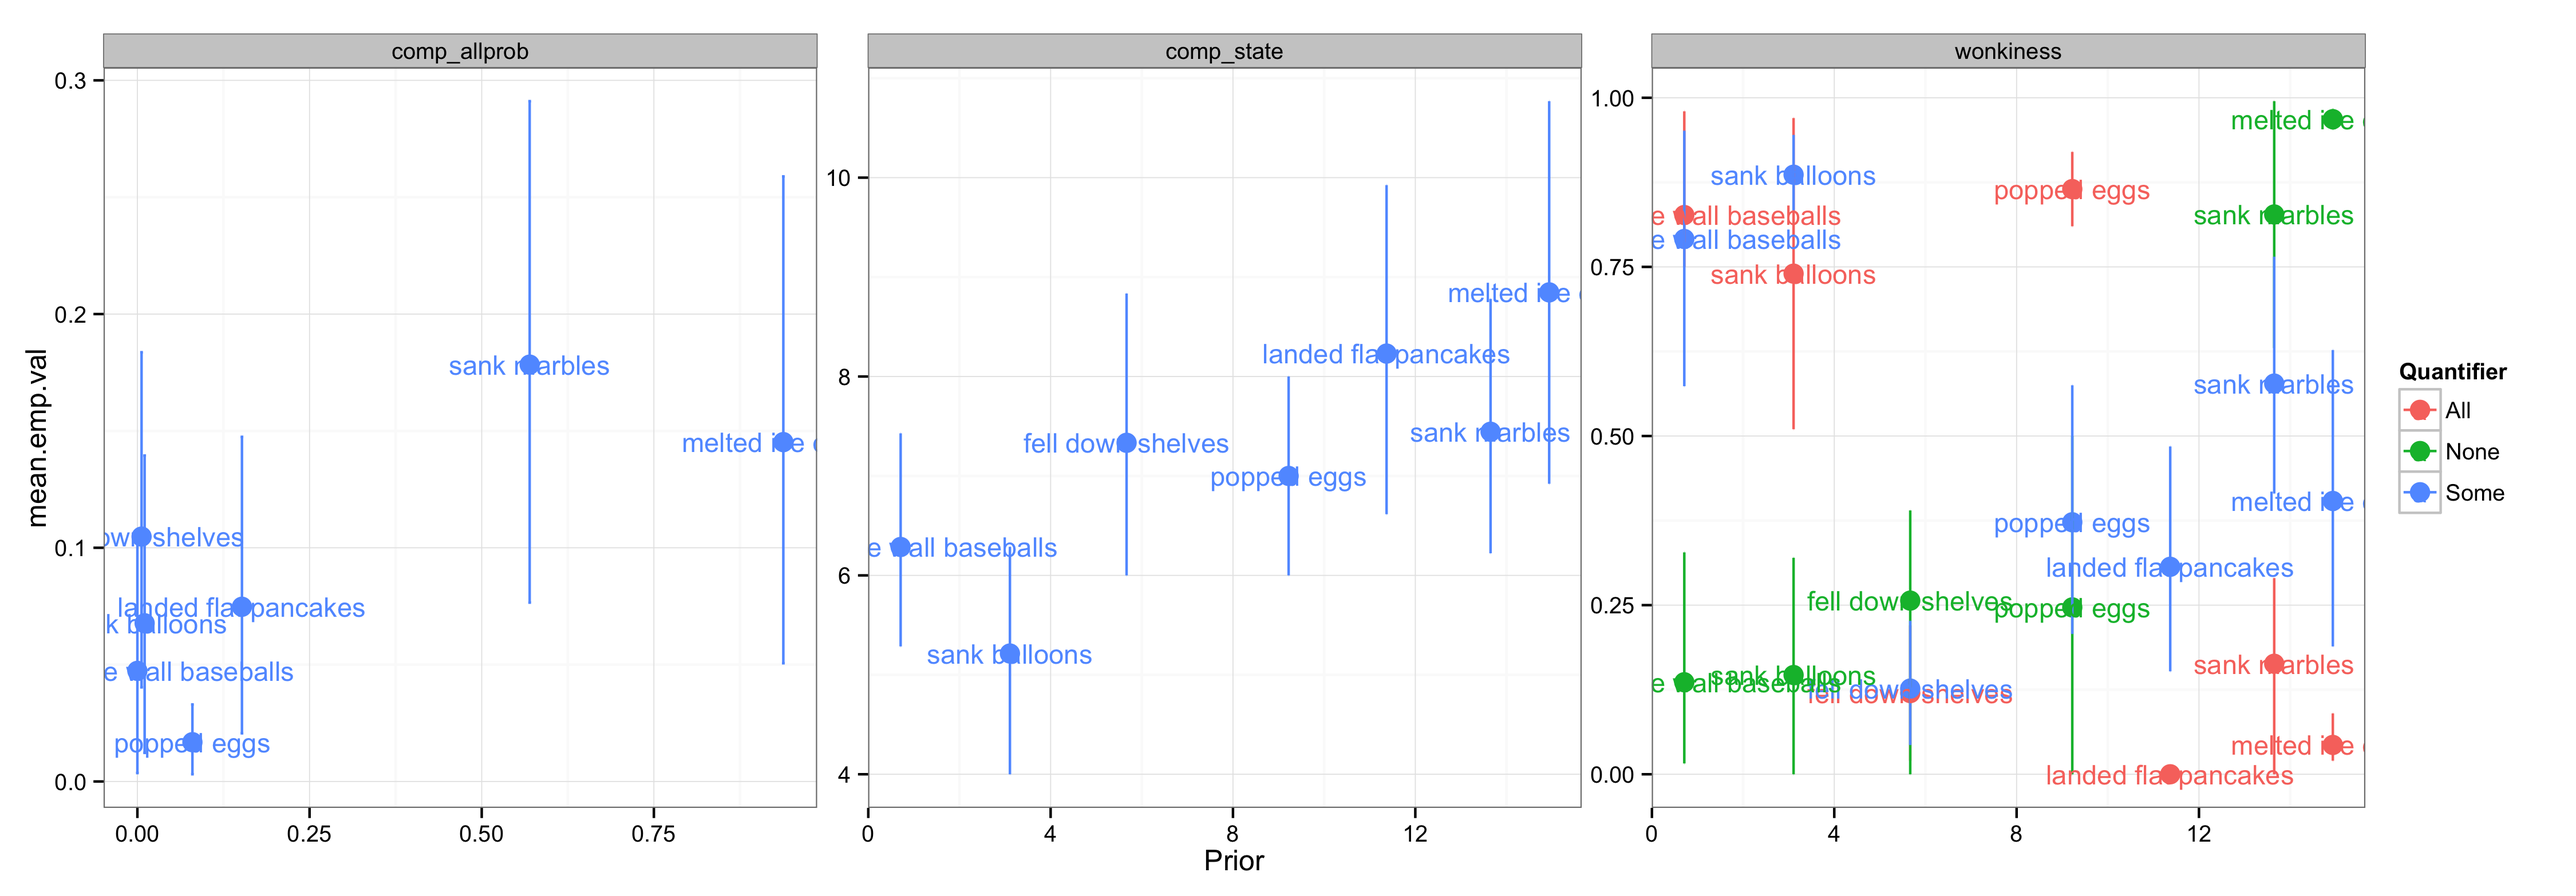
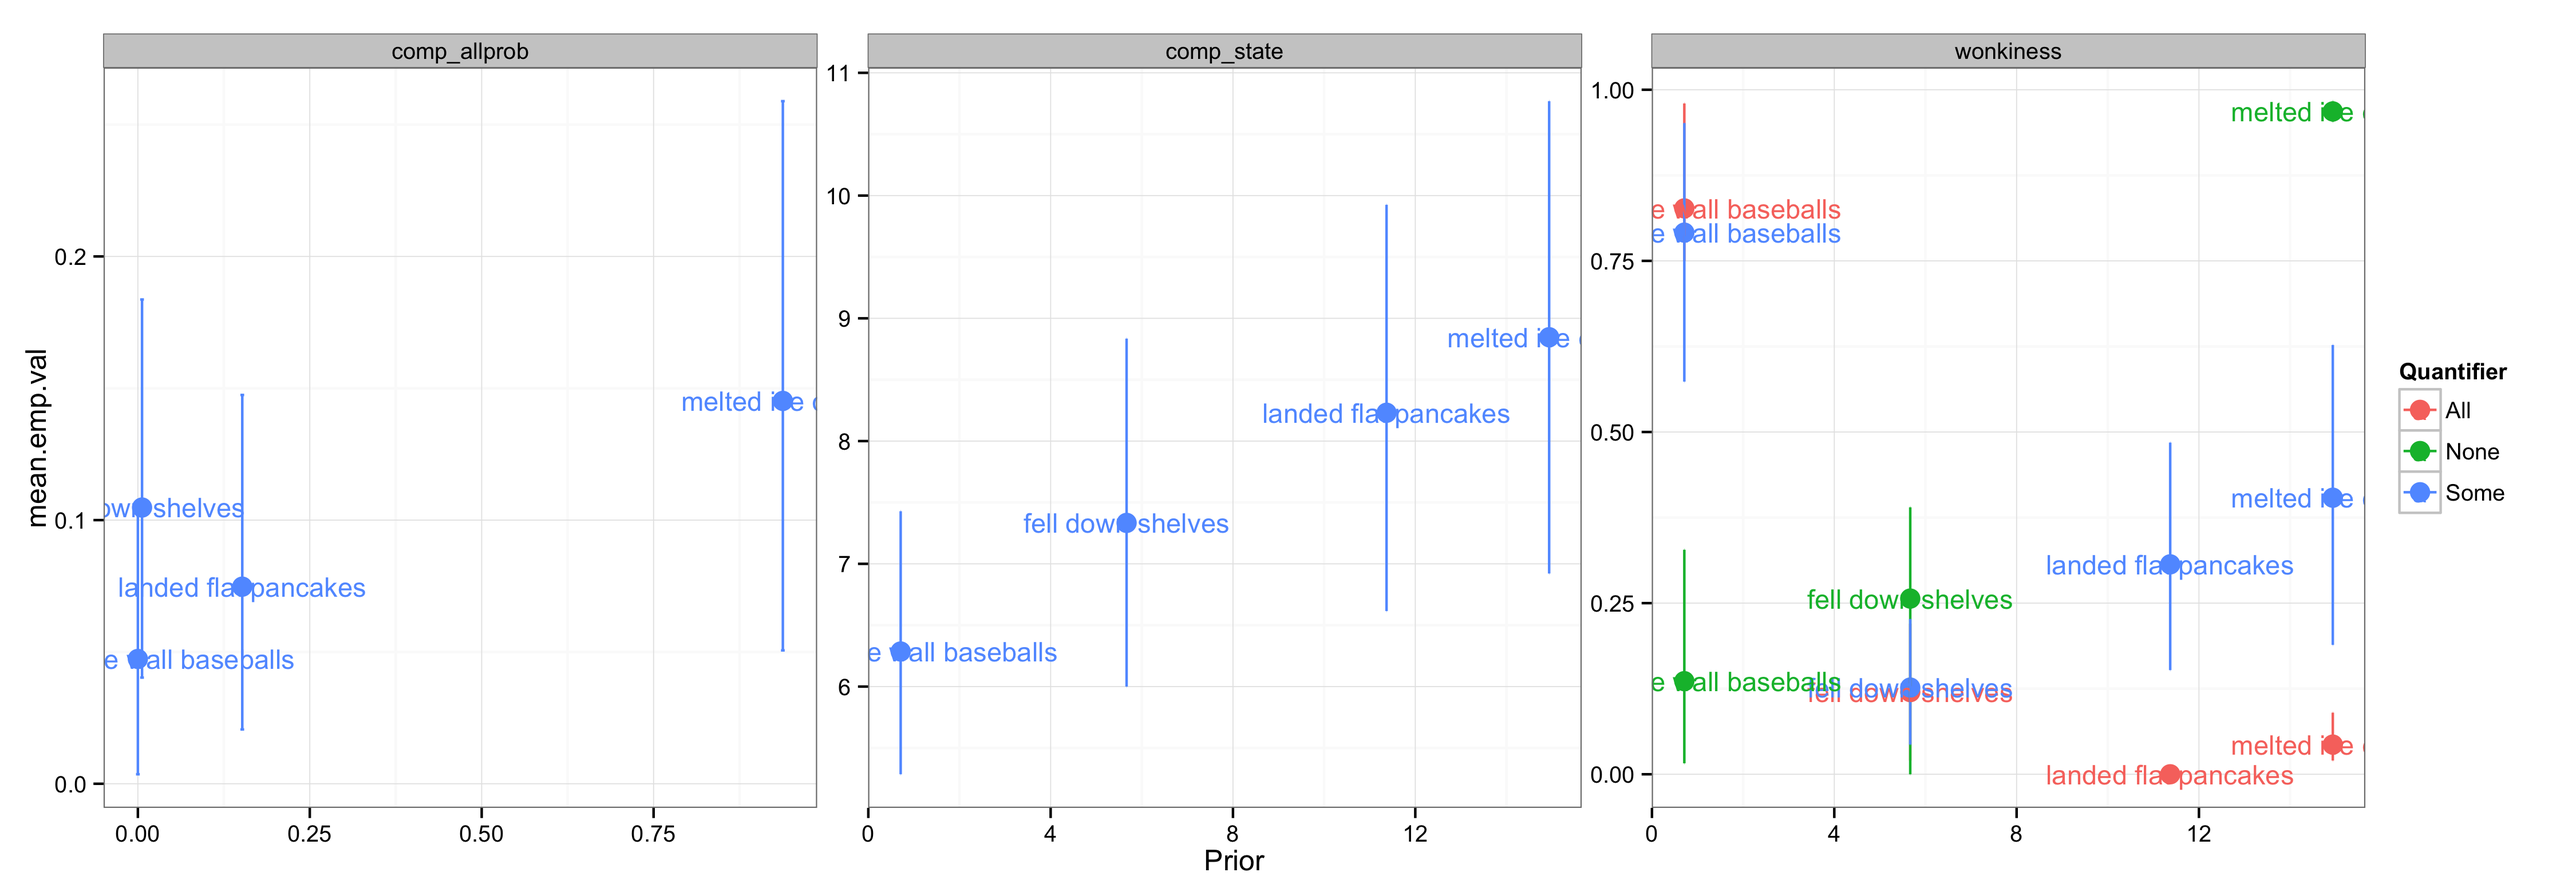
updated selected items

diff --git a/bayesian_model_comparison/model-eval.md b/bayesian_model_comparison/model-eval.md
@@ -44,4 +44,14 @@ Further desiderata:
 
 ![Empirical data for three different tasks](/bayesian_model_comparison/results/graphs/empirical_curves.png "Empirical means for each task")
 
+**List of selected items:**
+
+stuck to the wall baseballs
+
+fell down shelves
+
+landed flat pancakes
+
+melted ice cubes
+
 ![Empirical data for three different tasks for selected items](/bayesian_model_comparison/results/graphs/empirical_curves_selected.png "Empirical means for each task (selected items)")
